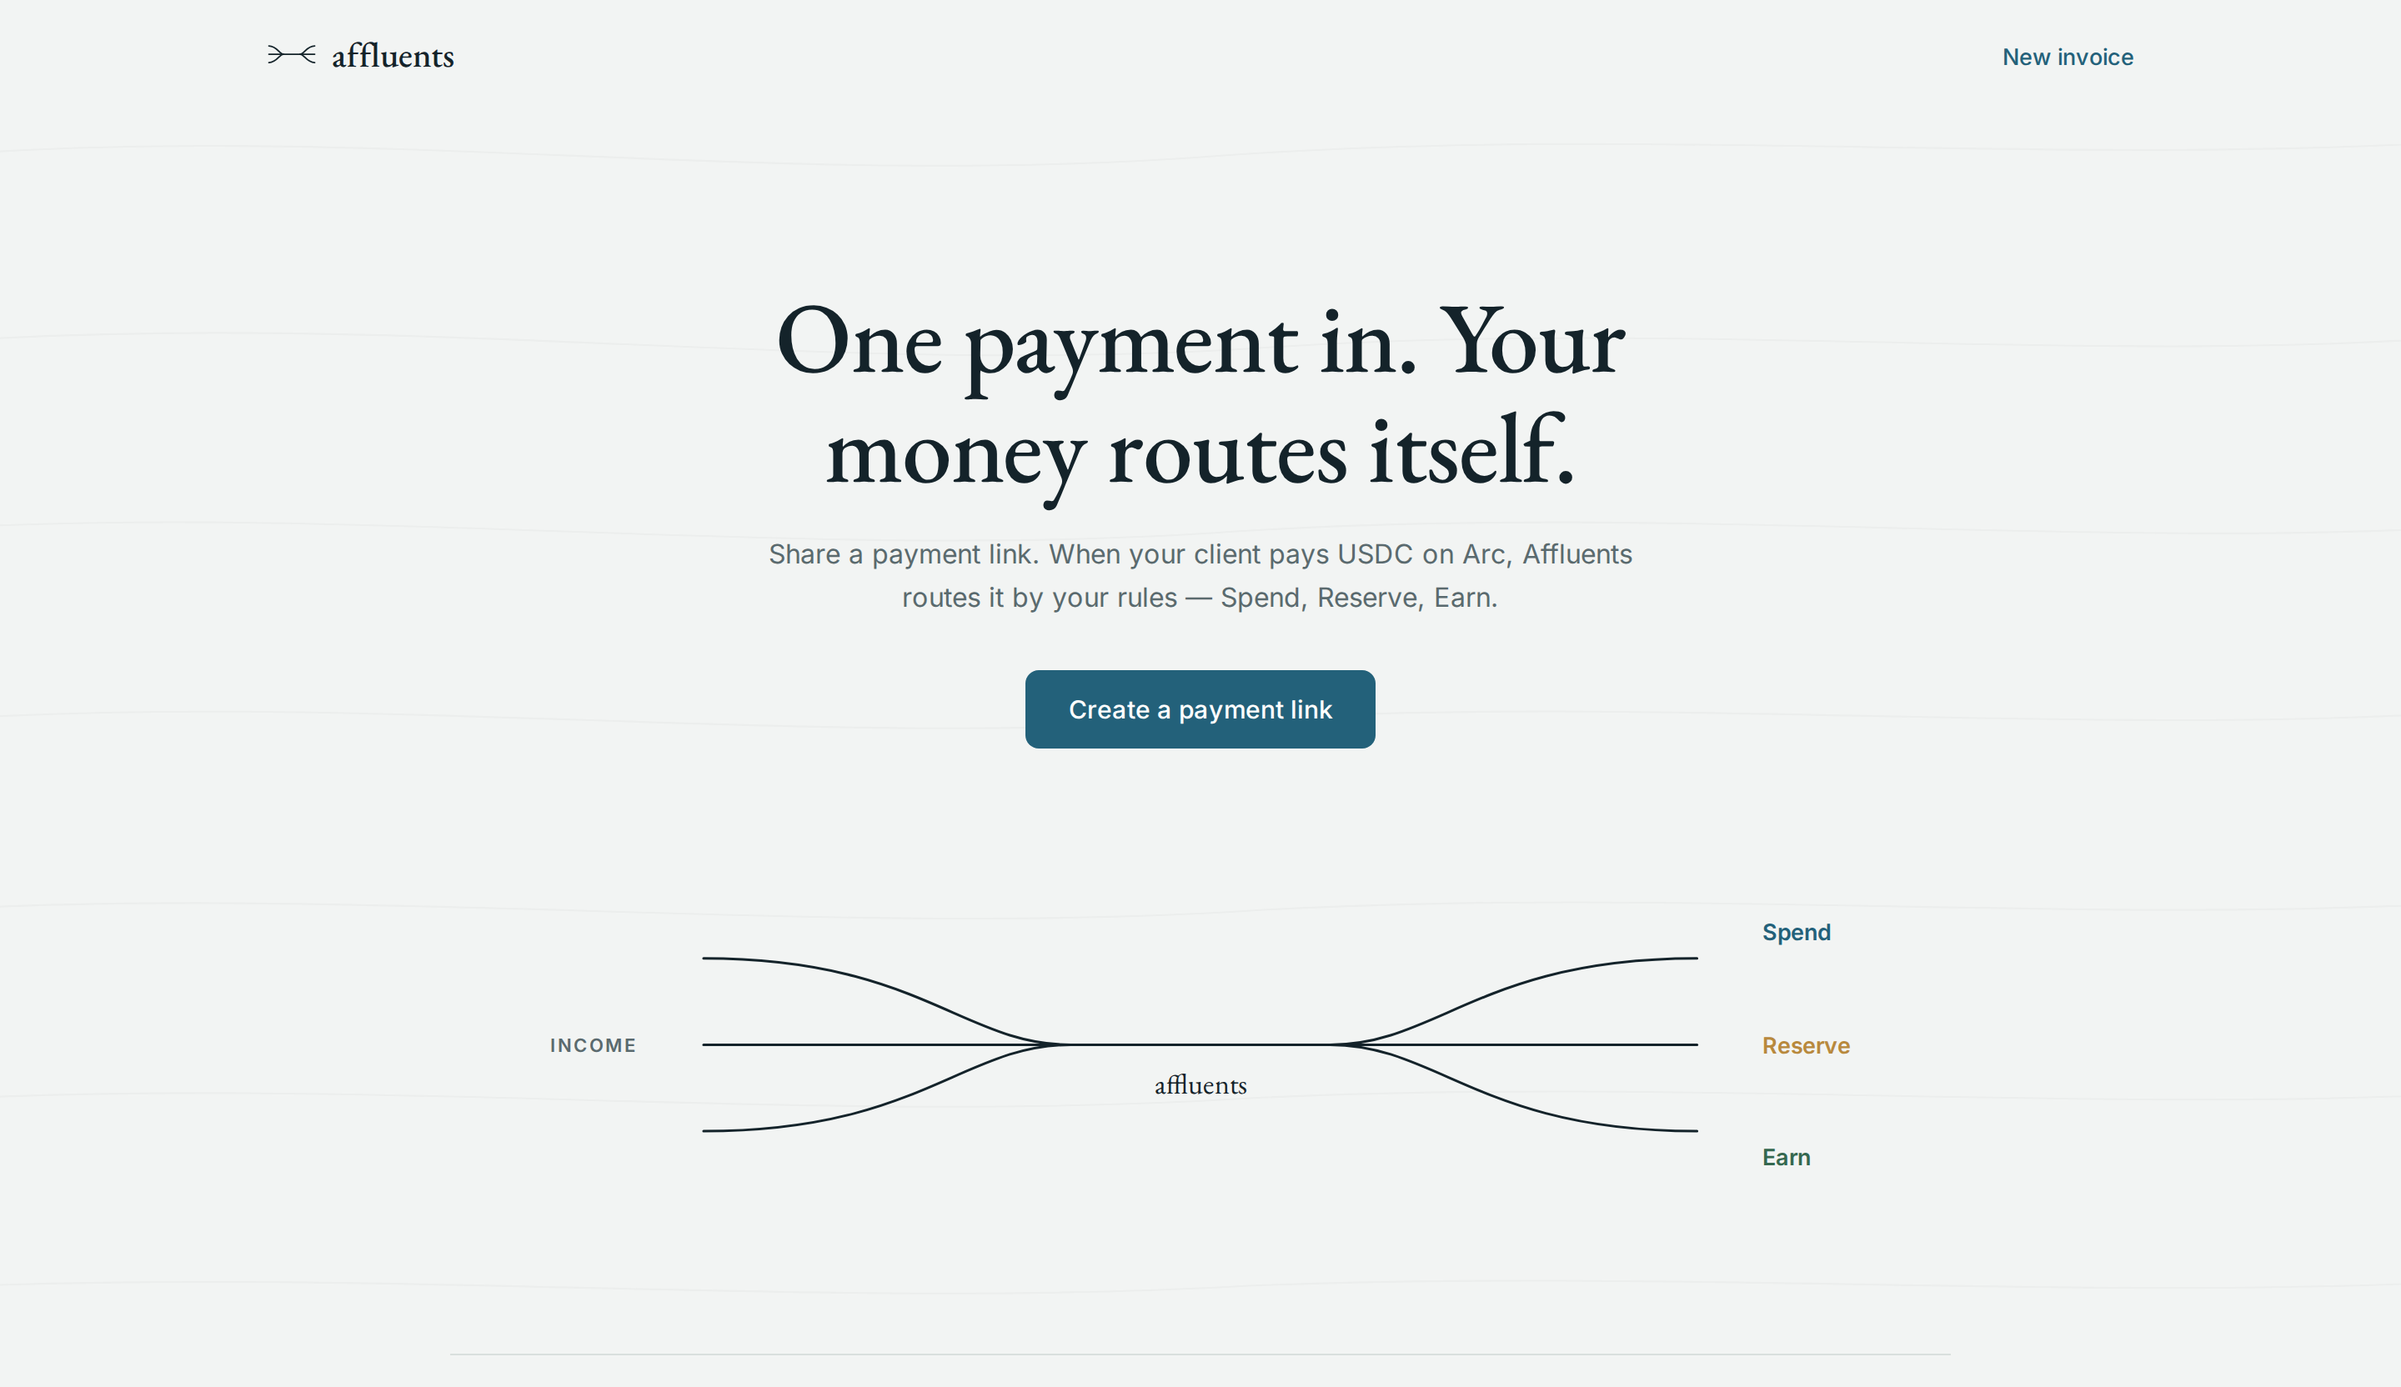
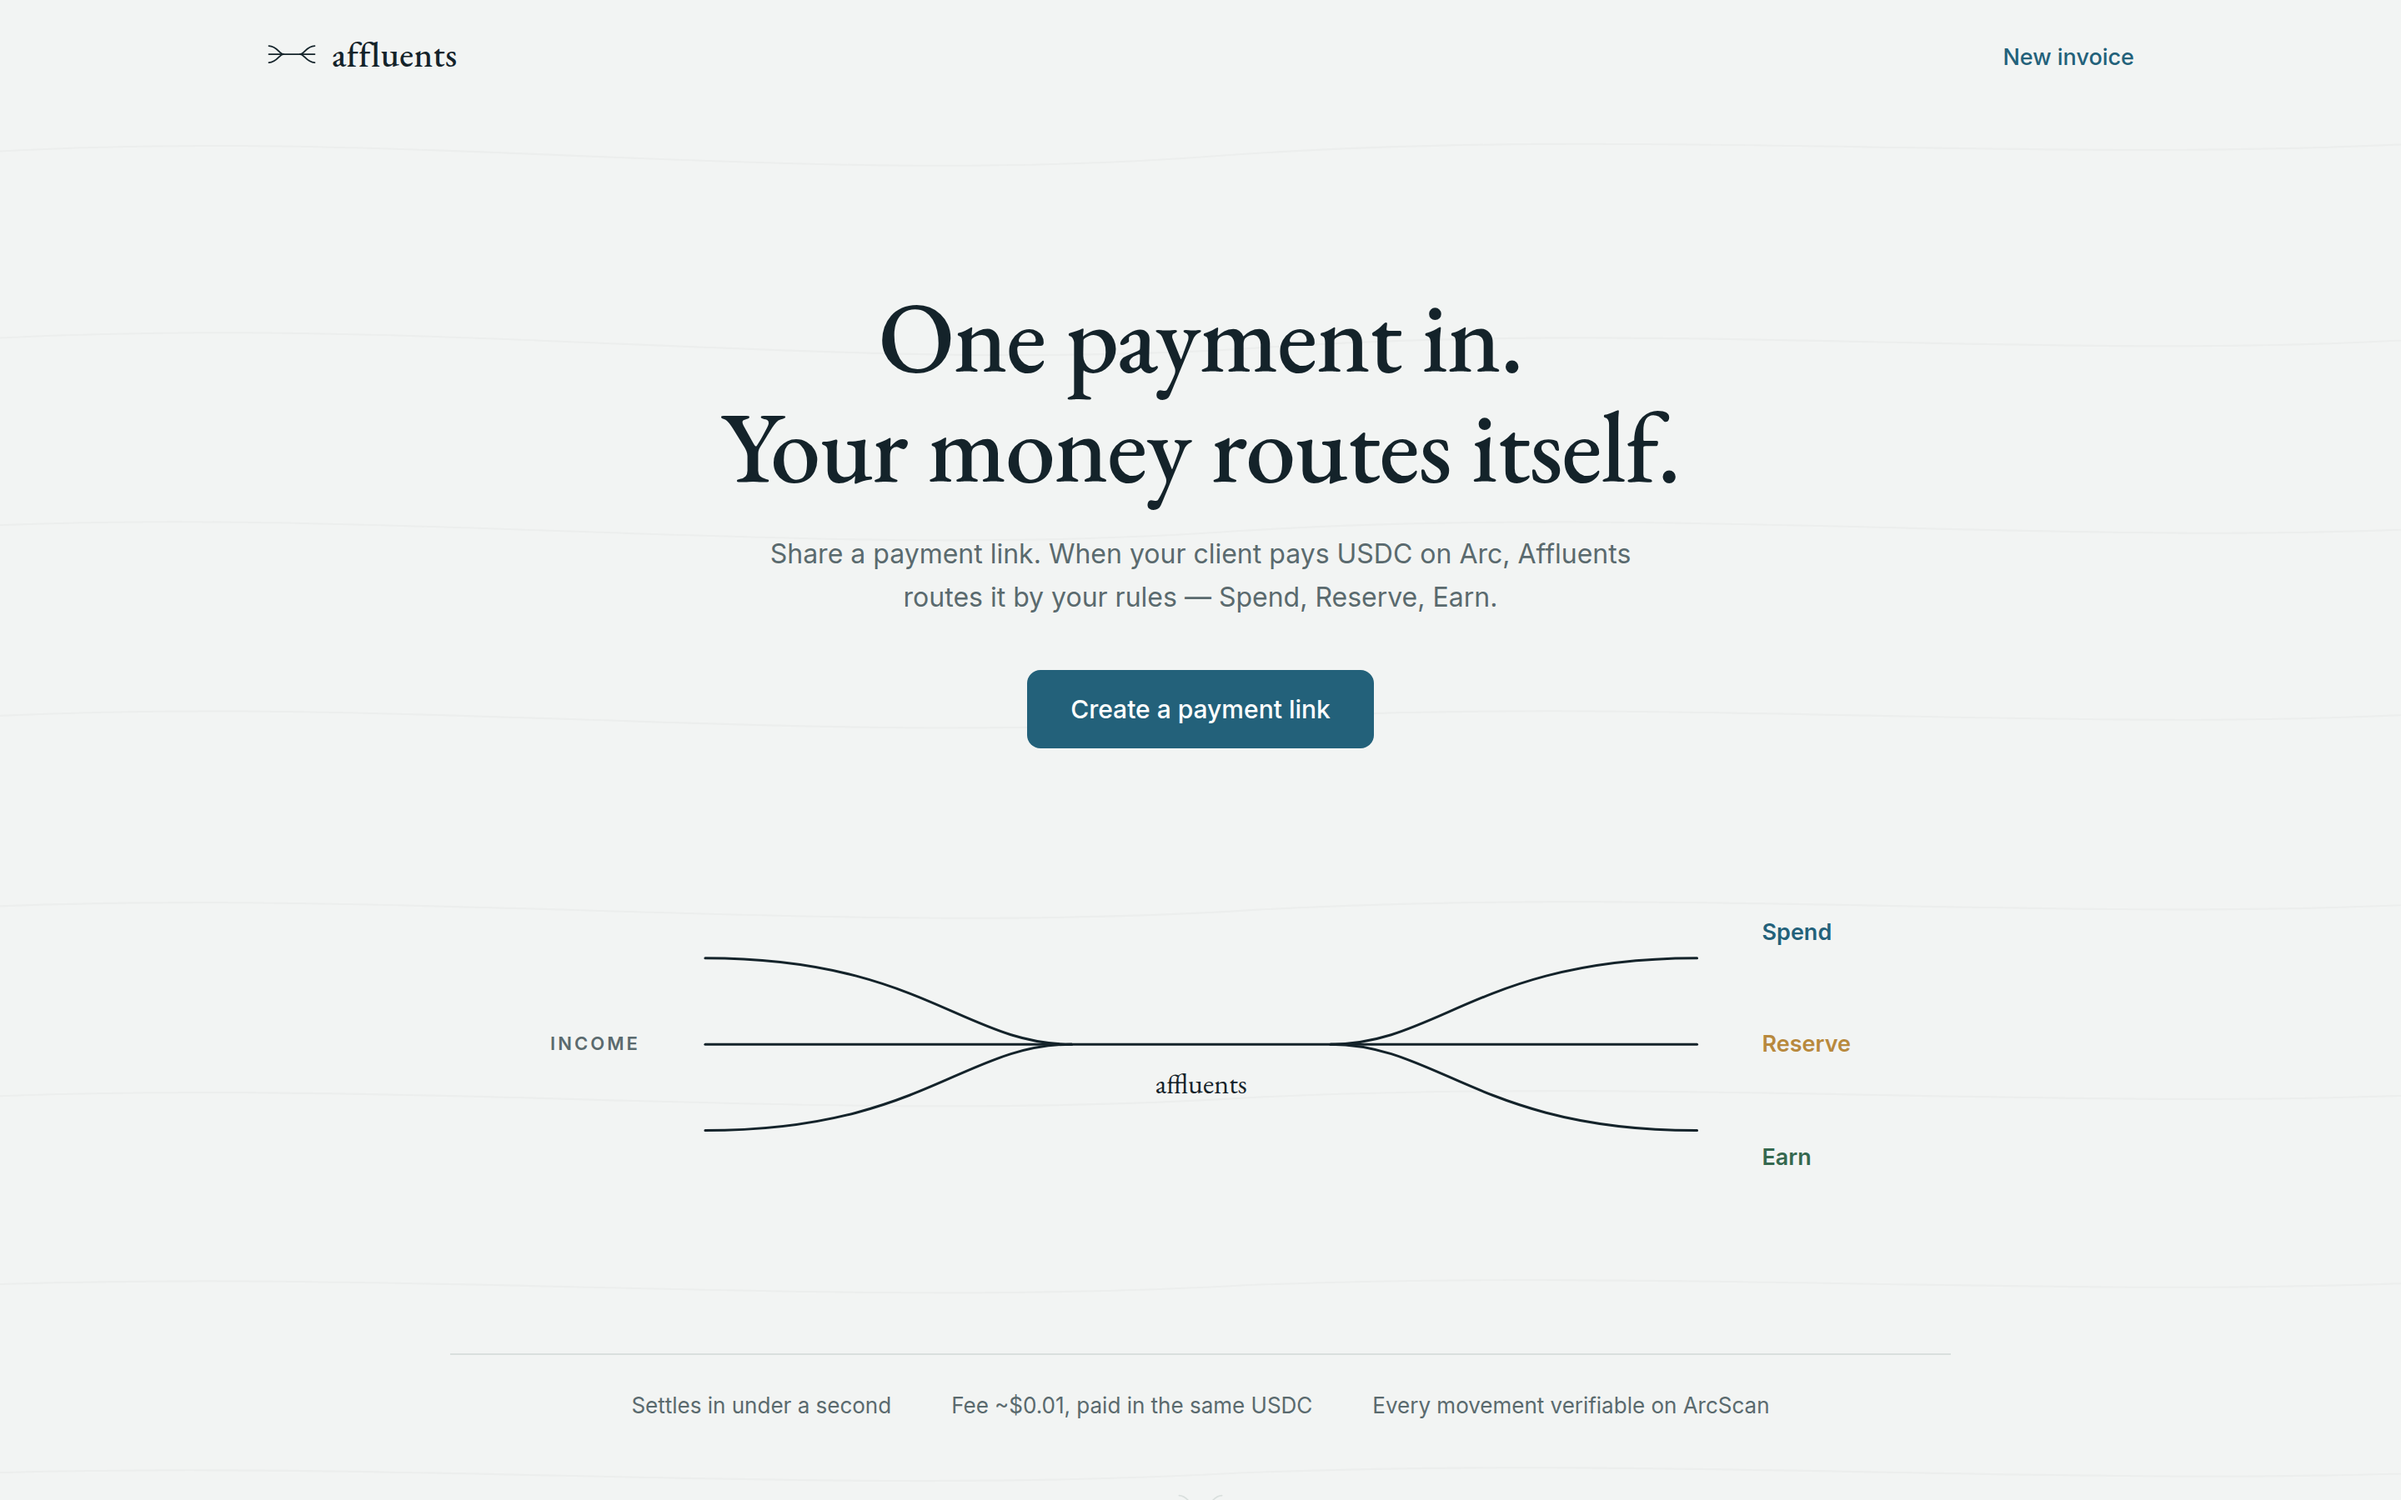
Demo-data cycle: fresh screenshots, capture script, landing headline break
- design/screenshots/capture.mjs (Playwright, playwright-core + cached
  chromium): smoke, defluence (arms pre-Confirm, polls withdrawals JSON
  state — never HTML text, which false-positived once), gate2 (10 frames).
  DASHBOARD_SECRET from env at runtime; page-only shots, no URL bar.
- 14 fresh @2x captures from live affluents.money: landing, create-filled,
  pay awaiting (desktop+mobile), pay paid, receipt (desktop+mobile),
  dashboard totals + withdrawals history, withdraw confirm step, and the
  defluence pending card captured during the real 0.80 Earn->Reserve
  withdrawal (wd_37faf2e336f141e9). Stale July captures removed.
- landing.ts: hero headline breaks after 'One payment in.' (operator
  request); deployed as d763072f.

Claude-Session: https://claude.ai/code/session_01J2aKeYQfbY8Z4CQFCKGS1X

diff --git a/worker/src/pages/landing.ts b/worker/src/pages/landing.ts
@@ -52,7 +52,7 @@ export function landingPage(): string {
       <nav><a href="/create">New invoice</a></nav>
     </header>
     <section class="hero">
-      <h1>One payment in. Your money routes itself.</h1>
+      <h1>One payment in.<br>Your money routes itself.</h1>
       <p>Share a payment link. When your client pays USDC on Arc, Affluents routes it by your rules — Spend, Reserve, Earn.</p>
       <a class="cta" href="/create">Create a payment link</a>
     </section>
